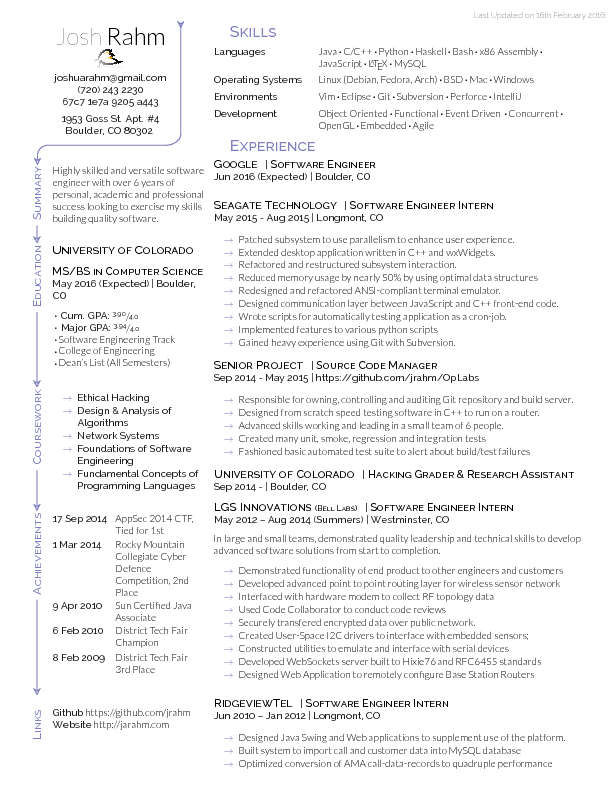
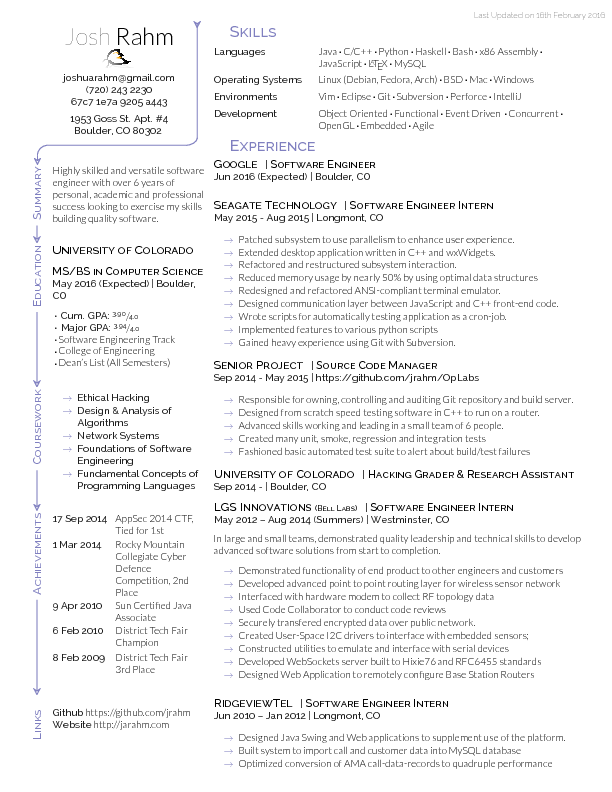
Small adjustments.

Changed region(s): [[0.0931, 0.0303, 0.3415, 0.1818]]

diff --git a/resume.tex b/resume.tex
@@ -39,7 +39,7 @@
 
 \begin{tikzpicture}[<->]
     \node[anchor=south west,inner sep=0] (namesection) at (0,0) {%
-        \begin{minipage}{0.9\textwidth}
+        \begin{minipage}{\textwidth}
             \begin{center}
 
                 \fontsize{24pt}{24pt}
@@ -62,10 +62,10 @@
     };
 
     \begin{scope}[x={(namesection.south east)},y={(namesection.north west)}]
-        \draw[-, line width=0.1em, color=topheadings] (0.95, 0) -- (0.95, 1);
+        \draw[-, line width=0.1em, color=topheadings] (0.95, -0.03) -- (0.95, 1);
         \draw[-{Stealth[scale=2, length=4, width=4]}, line width=0.1em, color=topheadings] (0.95, 1) -- (0.95, 0.99);
-        \draw[-, line width=0.1em, color=topheadings] ({0.5em + 10pt}, -10pt) -- (0.85, -10pt);
-        \draw[-, line width=0.1em, color=topheadings] (0.85,-10pt) arc (-90:0:0.10);
+        \draw[-, line width=0.1em, color=topheadings] ({0.5em + 10pt}, -10pt) -- (0.88, -10pt);
+        \draw[-, line width=0.1em, color=topheadings] (0.88,-10pt) arc (-90:0:0.07);
         \draw[-, line width=0.1em, color=topheadings] (0.5em,-20pt) arc (180:90:10pt);
         \draw[-{Stealth[scale=2, length=4, width=4]}, line width=0.1em, color=topheadings] (0.5em, -20pt) -- (0.5em, -30pt);
     \end{scope}
